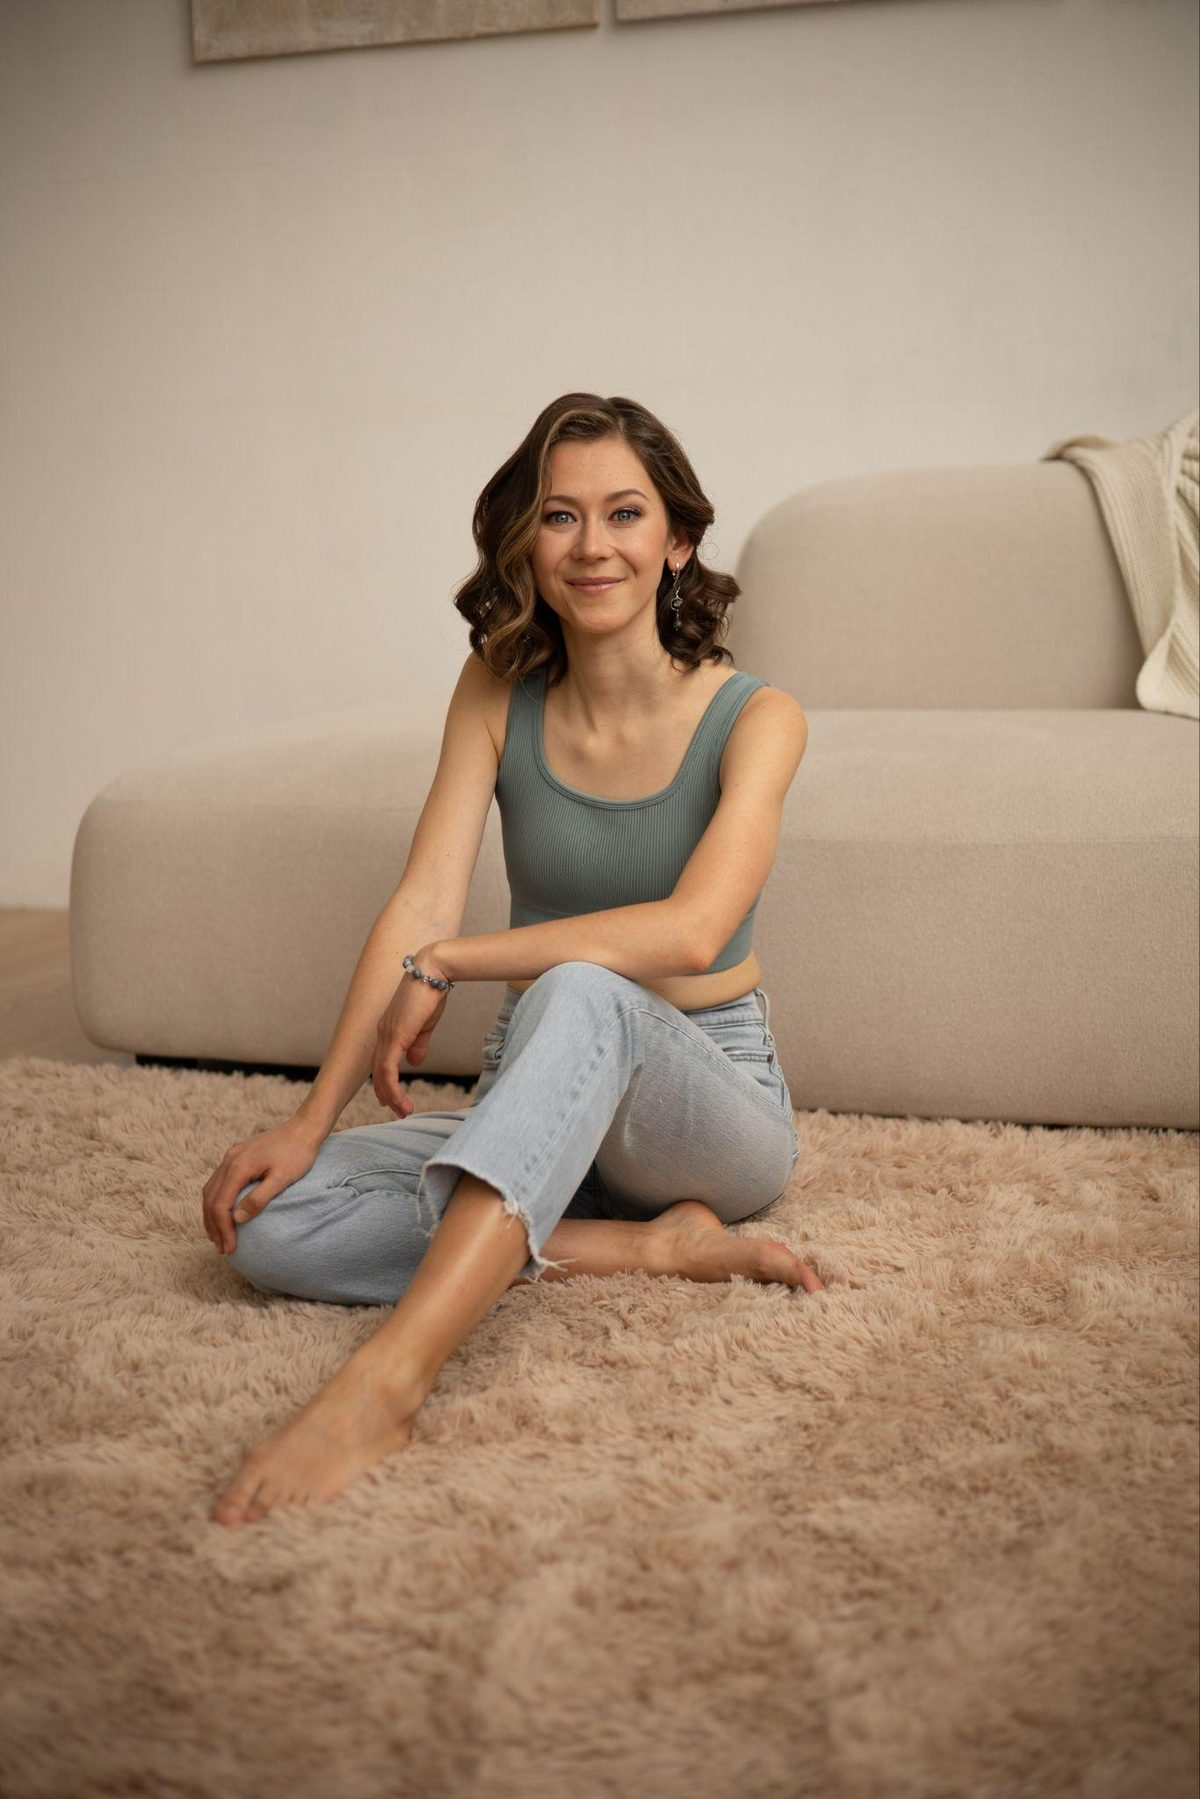
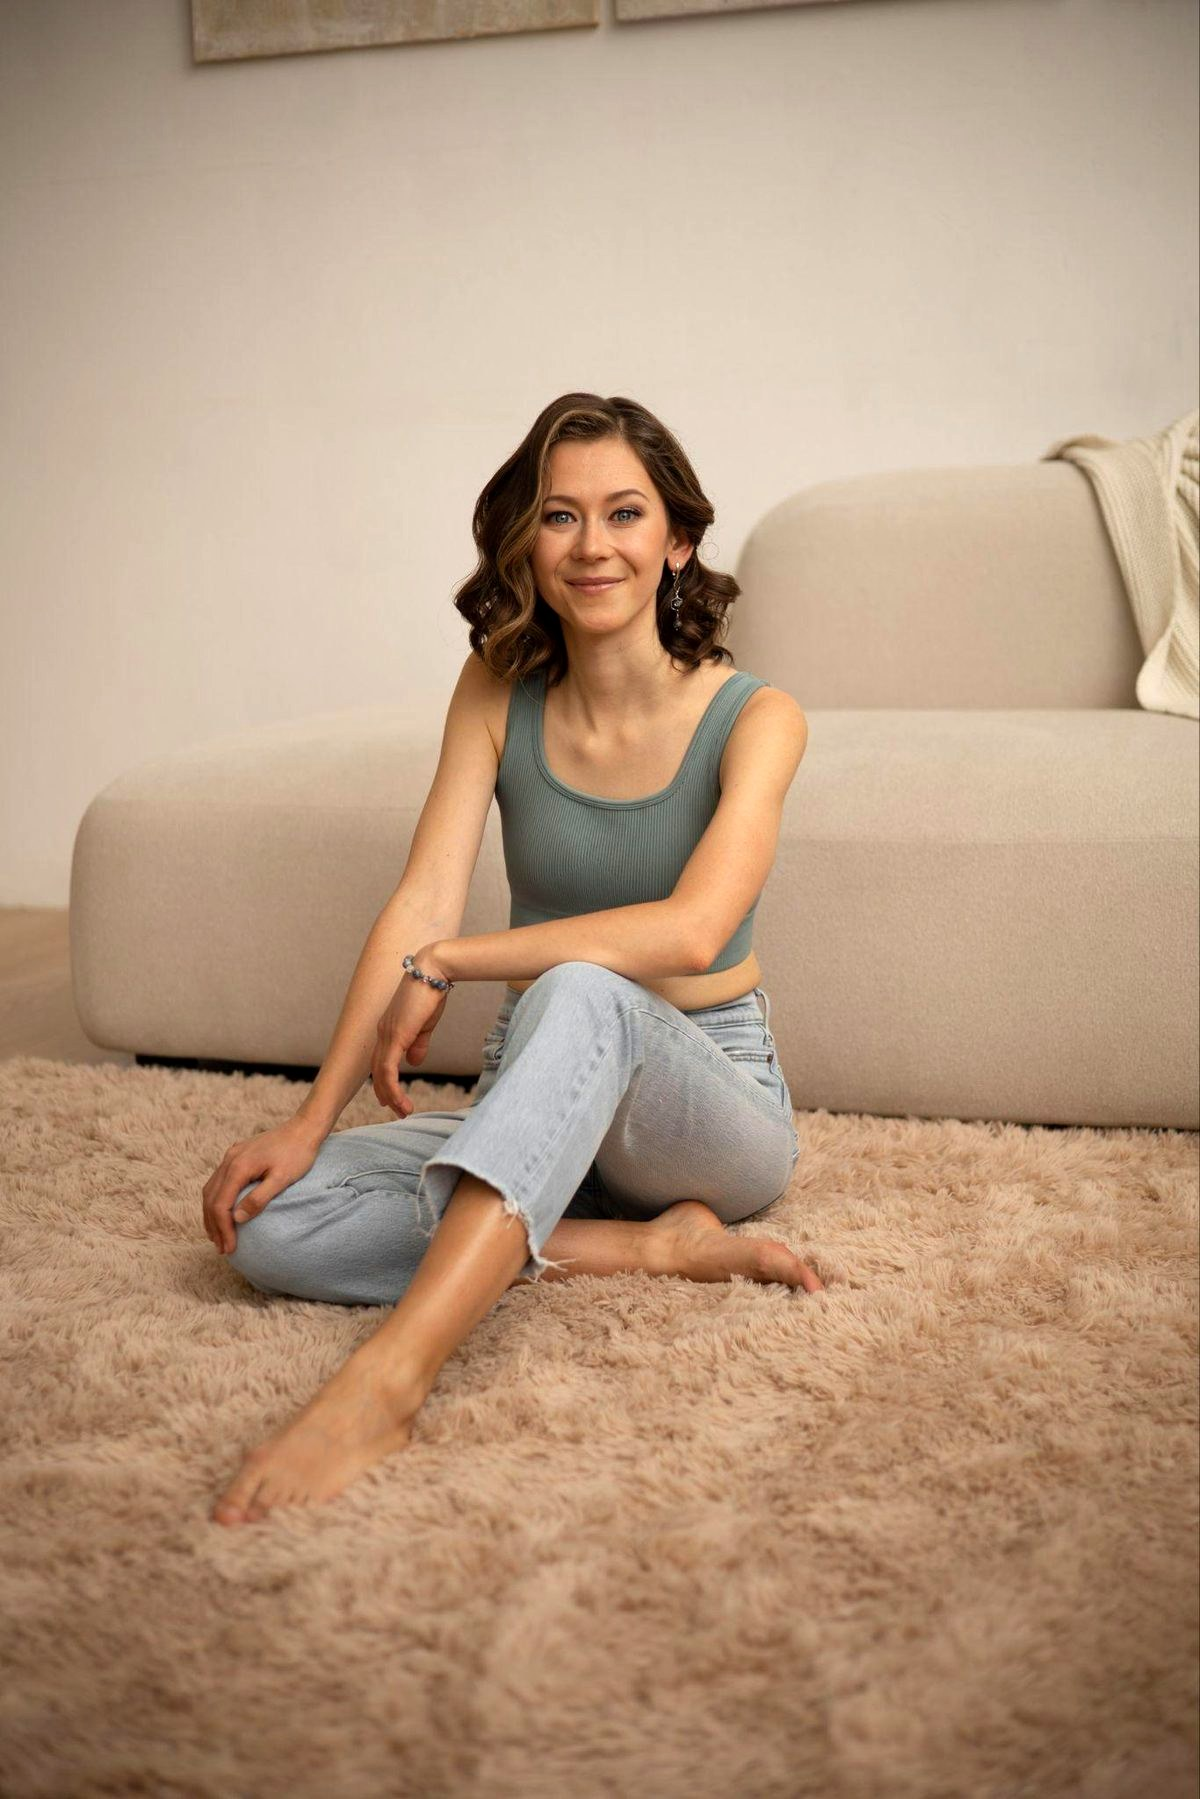
Add files via upload

Changed region(s): [[0.4625, 0.3735, 0.6783, 0.5292], [0.4625, 0.249, 0.555, 0.3424], [0.3083, 0.4358, 0.4008, 0.5292]]

diff --git a/styles.css b/styles.css
@@ -1,5 +1,5 @@
 /* ============================================================
-   Навигатор здоровья — лендинг Маргариты Луневой
+   Энергия на максимум — программа сопровождения · Маргарита Лунева
    Палитра: молочный, лаймовый, тёмно-зелёный, шоколадный
    Шрифты: EB Garamond italic (заголовки 1 ур.) + Quicksand (подзаголовки/UI) + Inter (текст)
    ============================================================ */
@@ -276,17 +276,6 @@ p { margin: 0 0 1em; }
 .nav__menu a.is-active::after { transform: scaleX(1); }
 .nav__menu a.is-active { color: var(--lime-deep); }
 
-/* Перекрёстная ссылка на смежный сайт (Навигатор ↔ Сопровождение) */
-.nav__menu a.nav__cross {
-  padding: 7px 16px;
-  border: 1px solid var(--green-deep);
-  border-radius: var(--r-pill);
-  color: var(--green-deep);
-  transition: background .25s ease, color .25s ease;
-}
-.nav__menu a.nav__cross::after { display: none; }
-.nav__menu a.nav__cross:hover { background: var(--green-deep); color: var(--cream); }
-
 .nav__burger {
   display: none;
   width: 40px; height: 40px;
@@ -376,8 +365,9 @@ p { margin: 0 0 1em; }
   padding: calc(var(--nav-h) + env(safe-area-inset-top) + 64px) 0 96px;
   overflow: hidden;
   background:
-    radial-gradient(ellipse 80% 60% at 50% 0%, rgba(228, 239, 166, .55) 0%, transparent 60%),
-    var(--cream);
+    radial-gradient(ellipse 90% 70% at 50% -6%, rgba(232, 220, 194, .9) 0%, transparent 62%),
+    radial-gradient(ellipse 70% 50% at 82% 16%, rgba(200, 220, 74, .14) 0%, transparent 60%),
+    linear-gradient(180deg, #EDE3CE 0%, #E8DCC2 100%);
 }
 .hero__bloom-1 { width: 380px; height: 380px; top: -80px;  left: -120px; opacity: .55; }
 .hero__bloom-2 { width: 320px; height: 320px; bottom: -120px; right: -80px; opacity: .35; }
@@ -470,6 +460,9 @@ p { margin: 0 0 1em; }
 }
 .section--dark h2, .section--dark h3 { color: var(--cream); }
 .section--dark .eyebrow { color: var(--lime); }
+
+/* FAQ — тёплый песочный фон, чтобы блок не сливался с секцией «Обо мне» */
+#faq.section--limesoft { background: linear-gradient(180deg, var(--cream) 0%, var(--cream-2) 100%); }
 
 .section__head {
   text-align: center;
@@ -648,7 +641,7 @@ p { margin: 0 0 1em; }
   font-size: 0.92rem;
 }
 
-/* Образцы Навигатора — теперь сливаются с фоном секции */
+/* Образцы — теперь сливаются с фоном секции */
 .timeline__sample {
   margin: 22px 0 0;
   padding: 18px 8px 4px;
@@ -947,16 +940,36 @@ p { margin: 0 0 1em; }
   font-family: var(--font-head);
   font-size: clamp(1.4rem, 1.4vw + 0.8rem, 2rem);
   font-weight: 500;
-  color: var(--cream);
+  color: var(--lime);
   align-self: flex-end;
   padding-bottom: 0.4em;
+}
+
+.price__econ-head {
+  max-width: 640px;
+  margin: 1.8em auto 0.2em;
+  padding: 18px 26px;
+  background: linear-gradient(135deg, var(--lime), var(--lime-deep));
+  color: var(--green-deep);
+  border-radius: var(--r-md);
+  font-family: var(--font-head);
+  font-weight: 600;
+  font-size: clamp(1.15rem, 1.2vw + 0.8rem, 1.6rem);
+  line-height: 1.3;
+  box-shadow: 0 16px 36px -16px rgba(166, 190, 46, .7);
+}
+.price__econ-head strong {
+  display: inline-block;
+  font-weight: 700;
+  font-size: 1.18em;
+  letter-spacing: -0.01em;
 }
 
 .price__list {
   list-style: none;
   padding: 0;
-  margin: 1.8em auto;
-  max-width: 600px;
+  margin: 0.8em auto 1.8em;
+  max-width: 640px;
   text-align: left;
   display: grid;
   gap: 10px;
@@ -1031,25 +1044,37 @@ p { margin: 0 0 1em; }
   margin-inline: auto;
 }
 .bubble {
-  background: var(--green-deep);
+  background: linear-gradient(160deg, var(--white) 0%, #EFF3E6 100%);
   padding: 26px 28px;
-  border-radius: 28px 28px 28px 6px;
+  border-radius: 28px;
   font-size: 1rem;
-  color: var(--cream);
-  border: 1px solid rgba(200, 220, 74, .28);
+  color: var(--ink);
+  border: 1px solid rgba(127, 166, 138, .3);
+  box-shadow: var(--shadow-sm);
   position: relative;
   transition: transform .3s ease, box-shadow .3s ease;
   display: flex;
-  gap: 20px;
+  gap: 18px;
   align-items: flex-start;
 }
-.bubble:hover { transform: translateY(-3px); box-shadow: var(--shadow-lg); }
-.bubble--alt {
-  background: #264032;
-  border-radius: 28px 28px 6px 28px;
-}
+.bubble:hover { transform: translateY(-3px); box-shadow: var(--shadow-md); }
 .bubble p { margin: 0; }
 .bubble .illust { width: 76px; height: 76px; }
+
+.bubble__num {
+  flex-shrink: 0;
+  width: 46px; height: 46px;
+  display: inline-flex;
+  align-items: center;
+  justify-content: center;
+  border-radius: 50%;
+  background: linear-gradient(150deg, var(--lime), var(--lime-deep));
+  color: var(--green-deep);
+  font-family: var(--font-head);
+  font-weight: 700;
+  font-size: 1.35rem;
+  box-shadow: 0 8px 18px -8px rgba(166, 190, 46, .8);
+}
 
 
 /* ============================================================

diff --git a/index.html b/index.html
@@ -9,8 +9,8 @@
   <link rel="preconnect" href="https://fonts.googleapis.com" />
   <link rel="preconnect" href="https://fonts.gstatic.com" crossorigin />
   <link href="https://fonts.googleapis.com/css2?family=Quicksand:wght@400;500;600;700&family=Inter:wght@300;400;500;600&family=EB+Garamond:ital,wght@1,400;1,500;1,600&display=swap" rel="stylesheet" />
-  <link rel="stylesheet" href="styles.css?v=20260611b" />
-  <link rel="stylesheet" href="soprovozhdenie.css?v=20260611b" />
+  <link rel="stylesheet" href="styles.css?v=20260612a" />
+  <link rel="stylesheet" href="soprovozhdenie.css?v=20260612a" />
 </head>
 <body>
 
@@ -127,7 +127,7 @@
             <p>Понимаете важность питания и образа жизни, но вечно в дедлайнах и задачах, не знаете, с чего начать и как оптимально внедрить здоровые привычки, кажется, что это сложно и долго</p>
           </li>
           <li class="feat reveal">
-            <span class="feat__ico" aria-hidden="true"><svg viewBox="0 0 24 24" fill="none" stroke="currentColor" stroke-width="1.6" stroke-linecap="round" stroke-linejoin="round"><circle cx="12" cy="12" r="9"/><circle cx="12" cy="12" r="3.4"/><path d="M12 3v5M12 16v5M3 12h5M16 12h5"/></svg></span>
+            <span class="feat__ico" aria-hidden="true"><svg viewBox="0 0 24 24" fill="none" stroke="currentColor" stroke-width="1.6" stroke-linecap="round" stroke-linejoin="round"><rect x="3" y="5" width="18" height="16" rx="2.5"/><path d="M3 9.5h18M8 3v4M16 3v4"/><path d="M6.8 13.4l2.4 2.4M9.2 13.4l-2.4 2.4M11.8 13.4l2.4 2.4M14.2 13.4l-2.4 2.4"/></svg></span>
             <p>Вам сложно внедрять здоровое питание и привычки самостоятельно, постоянно есть срывы, не хватает времени, дисциплины, чувствуете, что нужна поддержка и помощь</p>
           </li>
           <li class="feat reveal">
@@ -191,7 +191,7 @@
             <p>Обратная связь по анализам: список рекомендуемых анализов и пояснения по результатам показателей</p>
           </li>
           <li class="feat reveal">
-            <span class="feat__ico" aria-hidden="true"><svg viewBox="0 0 24 24" fill="none" stroke="currentColor" stroke-width="1.6" stroke-linecap="round" stroke-linejoin="round"><circle cx="12" cy="12" r="9"/><path d="M8.5 14.5s1.4 1.8 3.5 1.8 3.5-1.8 3.5-1.8"/><path d="M9 9.5v.5M15 9.5v.5"/><path d="M18.5 6.5l1.5-1M5.5 6.5L4 5.5"/></svg></span>
+            <span class="feat__ico" aria-hidden="true"><svg viewBox="0 0 24 24" fill="none" stroke="currentColor" stroke-width="1.6" stroke-linecap="round" stroke-linejoin="round"><path d="M12 16 C 11 12.5 11 8.5 12 5 C 13 8.5 13 12.5 12 16 Z"/><path d="M12 16 C 9.5 13.5 7.7 11.5 6.7 8.8 C 9.2 9.4 11 11.6 12 16 Z"/><path d="M12 16 C 14.5 13.5 16.3 11.5 17.3 8.8 C 14.8 9.4 13 11.6 12 16 Z"/><path d="M12 16 C 8 15.2 5 14 3.6 11.6 C 6.6 11.7 9.6 12.7 12 16 Z"/><path d="M12 16 C 16 15.2 19 14 20.4 11.6 C 17.4 11.7 14.4 12.7 12 16 Z"/><path d="M4.5 16.4 C 7.5 19 16.5 19 19.5 16.4"/></svg></span>
             <p>Работа с приглашённым экспертом по естественному омоложению: диагностика, индивидуальные упражнения для лица и тела</p>
           </li>
           <li class="feat reveal">
@@ -202,7 +202,7 @@
 
         <div class="gift reveal">
           <svg viewBox="0 0 24 24" fill="none" stroke="currentColor" stroke-width="1.6" stroke-linecap="round" stroke-linejoin="round" aria-hidden="true"><path d="M20 12v8a1 1 0 0 1-1 1H5a1 1 0 0 1-1-1v-8"/><rect x="2.5" y="7.5" width="19" height="4.5" rx="1"/><path d="M12 7.5V21"/><path d="M12 7.5C12 7.5 11 3.5 8.2 3.5 6.4 3.5 6.2 6 8 6.8 9.3 7.4 12 7.5 12 7.5zM12 7.5C12 7.5 13 3.5 15.8 3.5 17.6 3.5 17.8 6 16 6.8 14.7 7.4 12 7.5 12 7.5z"/></svg>
-          <p><strong>В подарок</strong> — повторная консультация (в чате или созвон) через 1–4&nbsp;мес после программы согласно индивидуальному маршруту. Обычная стоимость 5000&nbsp;рублей: дам обратную связь по повторно сданным анализам и уточню рекомендации.</p>
+          <p><strong>В подарок</strong> — повторная консультация (в чате или созвон) через 1–4&nbsp;месяц после программы согласно индивидуальному маршруту. Дам обратную связь по повторно сданным анализам и уточню рекомендации. Обычная стоимость 5&nbsp;000&nbsp;рублей.</p>
         </div>
       </div>
     </section>
@@ -220,7 +220,7 @@
         <ol class="timeline">
           <li class="timeline__item reveal">
             <span class="timeline__dot" aria-hidden="true"></span>
-            <span class="week-tag">Неделя 0 · Диагностика</span>
+            <span class="week-tag">Неделя 0<span class="week-tag__sep">·</span>Диагностика</span>
             <ul class="ticks">
               <li>Пройдёте диагностику вашего питания и образа жизни, а также лица и тела</li>
               <li>Получите список рекомендуемых анализов для сдачи</li>
@@ -230,7 +230,7 @@
 
           <li class="timeline__item reveal">
             <span class="timeline__dot" aria-hidden="true"></span>
-            <span class="week-tag">Неделя 1 · Перезагрузка</span>
+            <span class="week-tag">Неделя 1<span class="week-tag__sep">·</span>Перезагрузка</span>
             <ul class="ticks">
               <li>Перезапустите свой организм без жёстких чисток и голодовок, чтобы вывести накопленные токсины и восстановить ЖКТ для лучшего усвоения всех нутриентов, повышения энергии</li>
               <li>Получите индивидуальные упражнения для лица и тела, которые помогут вам выглядеть моложе и чувствовать себя увереннее</li>
@@ -239,7 +239,7 @@
 
           <li class="timeline__item reveal">
             <span class="timeline__dot" aria-hidden="true"></span>
-            <span class="week-tag">Неделя 2 · Баланс</span>
+            <span class="week-tag">Неделя 2<span class="week-tag__sep">·</span>Баланс</span>
             <ul class="ticks">
               <li>Получите понятную и эффективную стратегию движения к желаемому результату по здоровью и уровню энергии с учётом вашего питания и образа жизни, анализов и текущих симптомов</li>
               <li>Получите специальное меню с простыми рецептами и научитесь балансировать своё питание для долгой, качественной и энергичной жизни без подсчёта калорий и стресса</li>
@@ -248,7 +248,7 @@
 
           <li class="timeline__item reveal">
             <span class="timeline__dot" aria-hidden="true"></span>
-            <span class="week-tag">Неделя 3 · Замена</span>
+            <span class="week-tag">Неделя 3<span class="week-tag__sep">·</span>Замена</span>
             <ul class="ticks">
               <li>Замените продукты и ежедневные привычки, которые воруют вашу энергию и здоровье, на простые и вкусные альтернативы, приятные улучшения в образе жизни</li>
             </ul>
@@ -256,7 +256,7 @@
 
           <li class="timeline__item reveal">
             <span class="timeline__dot" aria-hidden="true"></span>
-            <span class="week-tag">Неделя 4 · Добавление</span>
+            <span class="week-tag">Неделя 4<span class="week-tag__sep">·</span>Добавление</span>
             <ul class="ticks">
               <li>Включите в рацион продукты и блюда, которые будут усиливать ваш уровень энергии и здоровья</li>
             </ul>
@@ -304,7 +304,7 @@
           </li>
           <li class="benefits__card reveal">
             <span class="benefits__num">02</span>
-            <h3>Стабильный уровень сил</h3>
+            <h3>Энергичное состояние</h3>
             <p>У вас высокий уровень энергии без резких провалов в середине или конце дня, появилось больше сил, чтобы реализовывать все свои идеи, а не откладывать дела на потом.</p>
           </li>
           <li class="benefits__card reveal">
@@ -340,14 +340,11 @@
           <h2>Отзывы</h2>
         </header>
 
-        <figure class="result-shot reveal">
-          <img src="assets/soprovozhdenie/result-skin.jpg" alt="Работали с высыпаниями на коже: до и после 6 месяцев — результат без медикаментов" loading="lazy" />
-          <figcaption>Работали с высыпаниями на коже · результат без медикаментов</figcaption>
-        </figure>
       </div>
 
       <div class="reviews">
         <div class="reviews__track" id="reviewsTrack">
+          <figure class="review"><img src="assets/soprovozhdenie/result-skin.jpg" alt="Работали с высыпаниями на коже: до и после 6 месяцев — результат без медикаментов" loading="lazy" /></figure>
           <figure class="review"><img src="assets/soprovozhdenie/review-1.jpg" alt="Отзыв клиента" loading="lazy" /></figure>
           <figure class="review"><img src="assets/soprovozhdenie/review-2.jpg" alt="Отзыв клиента" loading="lazy" /></figure>
           <figure class="review"><img src="assets/soprovozhdenie/review-3.jpg" alt="Отзыв клиента" loading="lazy" /></figure>
@@ -383,10 +380,11 @@
             Программа предполагает глубокую индивидуальную работу, максимальное погружение в ваши запросы по здоровью и уровню энергии, разработку материалов под вас, регулярное взаимодействие и поддержку в течение 2&nbsp;месяцев. Это инвестиция в ваше здоровье и уровень энергии.
           </p>
 
+          <p class="price__econ-head">Программа поможет вам сэкономить <strong>от 400&nbsp;тыс.</strong></p>
           <ul class="price__list">
-            <li>Программа поможет вам сэкономить от 400&nbsp;тыс. на самостоятельное погружение в тему и обучение всем нюансам, избыточные анализы и диагностику, излишние БАДы</li>
-            <li>Благодаря улучшениям в питании и образе жизни, упражнениям от эксперта по естественному омоложению вы можете снизить расходы на косметологические процедуры</li>
-            <li>С большой вероятностью вы будете меньше болеть — снизятся затраты на лечение и потери в зарплате в результате частых больничных</li>
+            <li>Экономия на самостоятельном погружении в тему и обучении всем нюансам, избыточных анализах и диагностике, излишних БАДах</li>
+            <li>Экономия на косметологических процедурах — благодаря улучшениям в питании и образе жизни и упражнениям от эксперта по естественному омоложению</li>
+            <li>С большой вероятностью вы будете меньше болеть — снизятся затраты на лечение и потери в зарплате из-за частых больничных</li>
           </ul>
 
           <p class="price__limit" role="note">
@@ -414,12 +412,15 @@
 
         <ul class="bubbles">
           <li class="bubble reveal">
+            <span class="bubble__num" aria-hidden="true">1</span>
             <p>Сложно внедрять здоровое питание и полезные привычки самостоятельно, нужна поддержка, много вопросов по продуктам, сочетаниям продуктов, рецептам и&nbsp;т.&nbsp;д.; хочется, чтобы провели за руку по всем нюансам, дали меню, по которому можно двигаться</p>
           </li>
-          <li class="bubble bubble--alt reveal">
+          <li class="bubble reveal">
+            <span class="bubble__num" aria-hidden="true">2</span>
             <p>Вроде питаетесь хорошо, полезные привычки уже есть, а энергии всё равно не хватает, ходите в уставшем состоянии бо́льшую часть дня, хотите увидеть слепые зоны и вместе с поддержкой над ними поработать</p>
           </li>
           <li class="bubble reveal">
+            <span class="bubble__num" aria-hidden="true">3</span>
             <p>Хотите комплексно оценить состояние организма и получить детальную обратную связь по анализам: объяснение простым языком, о чём сигнализирует тело, рекомендации — подключать ли какие-то добавки для поддержки организма или можно только поработать с питанием и образом жизни, как совмещать добавки, чтобы было не во вред, через какое время можно повторно оценивать прогресс и&nbsp;т.&nbsp;д.</p>
           </li>
         </ul>
@@ -598,6 +599,14 @@
           <span>
             <span class="footer__tg-label">Telegram-канал</span>
             <span class="footer__tg-handle">@lunelife</span>
+          </span>
+        </a>
+
+        <a href="https://www.instagram.com/margo.lune" target="_blank" rel="noopener" class="footer__tg">
+          <svg viewBox="0 0 24 24" fill="none" stroke="currentColor" stroke-width="1.8" stroke-linecap="round" stroke-linejoin="round" aria-hidden="true"><rect x="3" y="3" width="18" height="18" rx="5"/><circle cx="12" cy="12" r="4"/><circle cx="17.2" cy="6.8" r="1" fill="currentColor" stroke="none"/></svg>
+          <span>
+            <span class="footer__tg-label">Instagram</span>
+            <span class="footer__tg-handle">@margo.lune</span>
           </span>
         </a>
       </div>

diff --git a/soprovozhdenie.css b/soprovozhdenie.css
@@ -1,7 +1,6 @@
 /* ============================================================
    «Энергия на максимум» — программа сопровождения
-   Доп. стили поверх styles.css. Палитра/шрифты — общие с лендингом
-   «Навигатор здоровья», но контраст усилен (тёмно-зелёный, шоколад).
+   Доп. стили поверх styles.css.
    ============================================================ */
 
 :root {
@@ -15,11 +14,11 @@
 }
 
 .photo--wide {
-  width: clamp(300px, 44vw, 540px);
-  aspect-ratio: 3/2;
-  border-radius: 56% 44% 52% 48% / 54% 50% 50% 46%;
+  width: clamp(300px, 42vw, 520px);
+  aspect-ratio: 1/1;
+  border-radius: 66% 34% 58% 42% / 46% 58% 42% 54%;
 }
-.photo--wide img { object-position: center 28%; }
+.photo--wide img { object-position: center 26%; }
 
 .hero__name {
   display: block;
@@ -127,34 +126,14 @@
   padding: 5px 14px;
   margin-bottom: 12px;
 }
-
-/* ------- Блок результата ДО/ПОСЛЕ ------- */
-.result-shot {
-  max-width: 460px;
-  margin: 0 auto clamp(32px, 4vw, 48px);
-}
-.result-shot img {
-  width: 100%;
-  border-radius: var(--r-md);
-  box-shadow: var(--shadow-lg);
-  border: 1px solid rgba(127, 166, 138, .2);
-}
-.result-shot figcaption {
-  margin-top: 14px;
-  text-align: center;
-  font-family: var(--font-head);
-  font-weight: 500;
-  color: var(--green-soft);
-  font-size: 1rem;
-}
-
-/* Внутренняя ссылка-акцент (в FAQ на Навигатор) */
-.inline-link {
+.week-tag__sep {
+  display: inline-block;
+  font-size: 1.7em;
+  line-height: 0;
+  vertical-align: -0.18em;
+  margin: 0 0.32em;
   color: var(--lime-deep);
-  font-weight: 600;
-  border-bottom: 1.5px solid rgba(166, 190, 46, .5);
 }
-.inline-link:hover { border-bottom-color: var(--lime-deep); }
 
 /* Рассрочка-список внутри FAQ */
 .faq__body ul { margin: 0.4em 0 0; padding-left: 1.1em; }